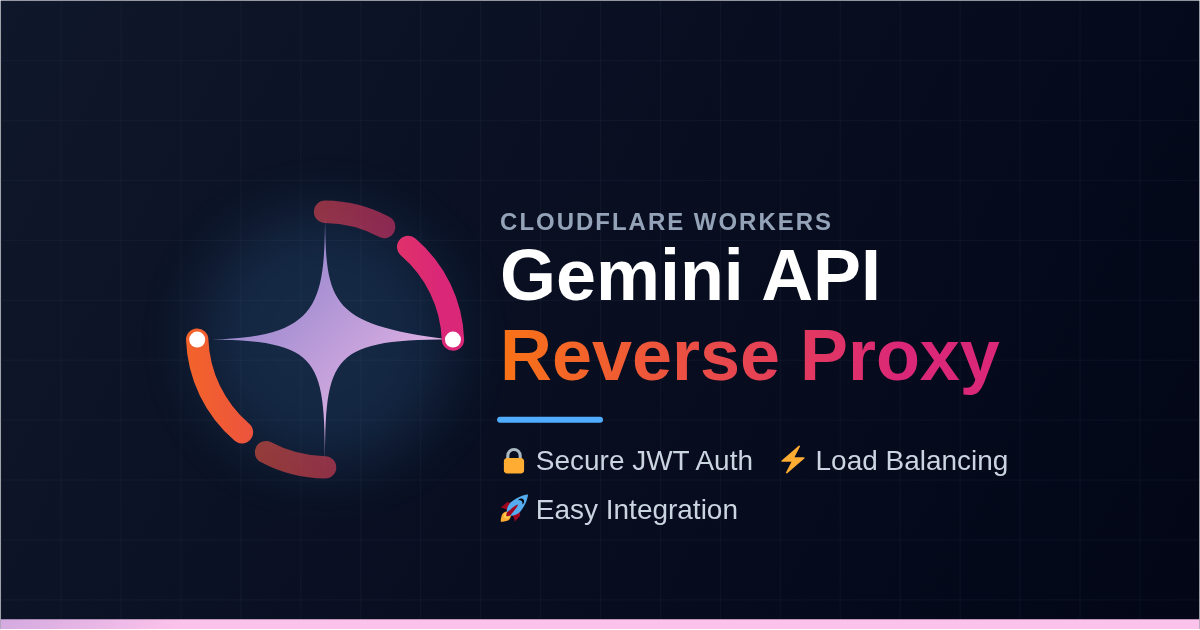
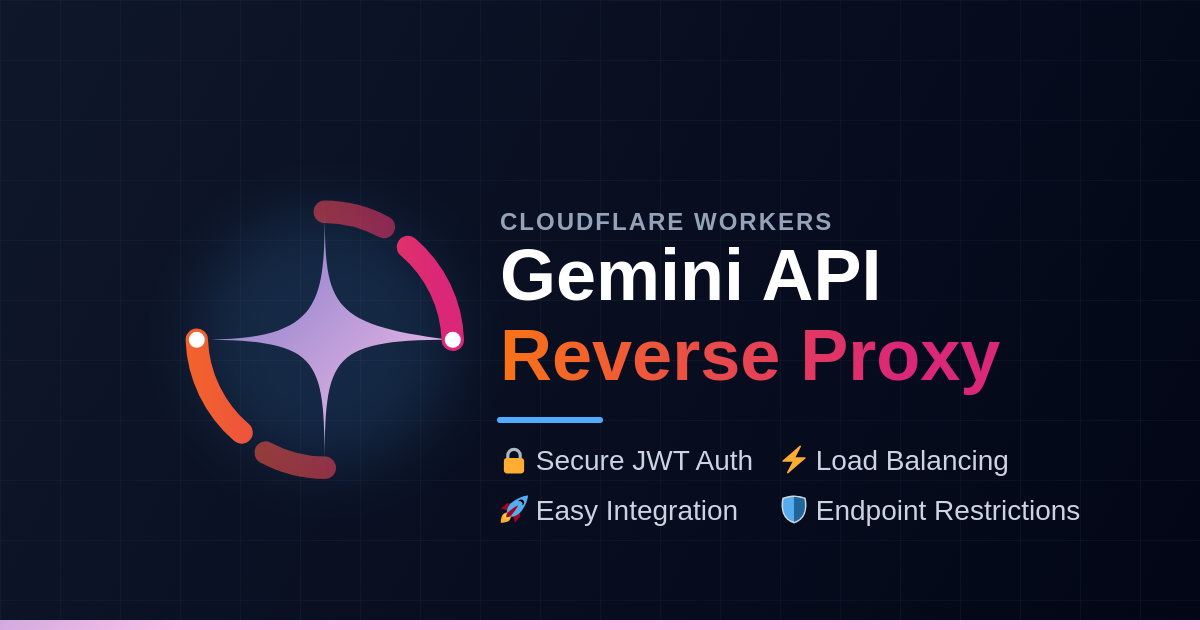
feat: Add allowed endpoints configuration and validation for JWT payload

diff --git a/src/utils.ts b/src/utils.ts
@@ -1,4 +1,22 @@
-import { Credential } from "./types";
+import { ClientKeyPayload, Credential } from "./types";
+
+function isClientKeyPayload(payload: unknown): payload is ClientKeyPayload {
+    if (!payload || typeof payload !== "object") {
+        return false;
+    }
+
+    const data = payload as Record<string, unknown>;
+    const hasTimestamps =
+        typeof data.exp === "number" && typeof data.nbf === "number";
+    const hasAllowedEndpoints =
+        data.allowed_endpoints === undefined ||
+        (Array.isArray(data.allowed_endpoints) &&
+            data.allowed_endpoints.every(
+                (endpoint) => typeof endpoint === "string",
+            ));
+
+    return hasTimestamps && hasAllowedEndpoints;
+}
 
 export async function hashKey(key: string | Credential): Promise<string> {
     const hashBuffer = await crypto.subtle.digest(
@@ -15,10 +33,10 @@ export async function hashKey(key: string | Credential): Promise<string> {
 export async function validateClientKey(
     key: string,
     secret: string,
-): Promise<boolean> {
+): Promise<ClientKeyPayload | null> {
     const parts = key.split(".");
     if (parts.length !== 3) {
-        return false;
+        return null;
     }
 
     let [headerB64, payloadB64, signatureB64] = parts;
@@ -30,7 +48,10 @@ export async function validateClientKey(
         return b;
     };
     const payloadJson = atob(toBase64(payloadB64));
-    const payload = JSON.parse(payloadJson);
+    const payload: unknown = JSON.parse(payloadJson);
+    if (!isClientKeyPayload(payload)) {
+        return null;
+    }
     const now = Math.floor(Date.now() / 1000);
     if (
         !payload.exp ||
@@ -38,7 +59,7 @@ export async function validateClientKey(
         now > payload.exp ||
         now < payload.nbf
     ) {
-        return false;
+        return null;
     }
 
     // validate signature
@@ -64,5 +85,5 @@ export async function validateClientKey(
         data,
     );
 
-    return isValid;
+    return isValid ? payload : null;
 }

diff --git a/public/script.js b/public/script.js
@@ -114,7 +114,31 @@ genBtn.addEventListener("click", async () => {
     try {
         const header = { alg: "HS256", typ: "JWT" };
         const providedNote = noteEl && noteEl.value ? noteEl.value : "";
-        const payload = { nbf, exp, note: providedNote };
+
+        let allowedEndpoints = [".*"];
+        const allowedEndpointsEl = document.getElementById("allowedEndpoints");
+        if (allowedEndpointsEl && allowedEndpointsEl.value) {
+            try {
+                const parsed = JSON.parse(allowedEndpointsEl.value);
+                if (Array.isArray(parsed)) {
+                    allowedEndpoints = parsed;
+                } else {
+                    throw new Error("Allowed endpoints must be a JSON array");
+                }
+            } catch (e) {
+                signedResult.style.display = "block";
+                signedCode.textContent =
+                    "Error parsing allowed endpoints: " + e.message;
+                return;
+            }
+        }
+
+        const payload = {
+            nbf,
+            exp,
+            note: providedNote,
+            allowed_endpoints: allowedEndpoints,
+        };
 
         const unsigned =
             base64UrlEncode(JSON.stringify(header)) +

diff --git a/public/index.html b/public/index.html
@@ -120,6 +120,19 @@
                         </div>
 
                         <div class="form-row">
+                            <label class="form-label" for="allowedEndpoints"
+                                >Allowed Endpoints</label
+                            >
+                            <input
+                                id="allowedEndpoints"
+                                class="form-input"
+                                type="text"
+                                placeholder='JSON array of regex patterns (default: [".*"])'
+                                value='[".*"]'
+                            />
+                        </div>
+
+                        <div class="form-row">
                             <label class="form-label" for="note">Note</label>
                             <input
                                 id="note"

diff --git a/src/index.ts b/src/index.ts
@@ -93,12 +93,21 @@ app.all("/*", async (c) => {
     }
 
     if (c.env.CLIENT_KEY_VALIDATION_SECRET) {
-        const isValid = await validateClientKey(
+        const payload = await validateClientKey(
             clientKey,
             c.env.CLIENT_KEY_VALIDATION_SECRET,
         );
-        if (!isValid) {
+        if (!payload) {
             return c.json({ error: "Invalid API key" }, 403);
+        }
+
+        const allowedEndpoints: string[] = payload.allowed_endpoints || [".*"];
+        const isAllowed = allowedEndpoints.some((pattern) =>
+            new RegExp(pattern).test(path),
+        );
+
+        if (!isAllowed) {
+            return c.json({ error: "Endpoint not allowed" }, 403);
         }
     }
 

diff --git a/src/types.ts b/src/types.ts
@@ -19,3 +19,9 @@ export interface KeyConfig {
 export interface Config {
     keys: KeyConfig[];
 }
+
+export interface ClientKeyPayload {
+    exp: number;
+    nbf: number;
+    allowed_endpoints?: string[];
+}

diff --git a/README.md b/README.md
@@ -10,36 +10,41 @@ This simplifies API access with load balancing, JWT validation, and seamless int
 ## Table of Contents
 
 - [Gemini Reverse Proxy Worker](#gemini-reverse-proxy-worker)
-    - [Table of Contents](#table-of-contents)
-    - [Features](#features)
-    - [Prerequisites](#prerequisites)
-    - [Installation](#installation)
-    - [Configuration](#configuration)
-        - [GEMINI_API_KEY](#gemini_api_key)
-        - [GEMINI_API_BASE_URL (Optional)](#gemini_api_base_url-optional)
-        - [CLIENT_KEY_VALIDATION_SECRET (Optional)](#client_key_validation_secret-optional)
-    - [Usage](#usage)
-        - [Development](#development)
-        - [Testing](#testing)
-        - [Deployment](#deployment)
-    - [API Usage](#api-usage)
-        - [Example Request](#example-request)
-        - [Supported Endpoints](#supported-endpoints)
-    - [Client Key Validation](#client-key-validation)
-    - [Load Balancing](#load-balancing)
-    - [Contributing](#contributing)
-    - [Issues](#issues)
-    - [License](#license)
+  - [Table of Contents](#table-of-contents)
+  - [Features](#features)
+  - [Prerequisites](#prerequisites)
+  - [Installation](#installation)
+  - [Configuration](#configuration)
+    - [GEMINI\_API\_KEY](#gemini_api_key)
+    - [GEMINI\_API\_BASE\_URL (Optional)](#gemini_api_base_url-optional)
+    - [CLIENT\_KEY\_VALIDATION\_SECRET (Optional)](#client_key_validation_secret-optional)
+    - [Storage Backend (Optional)](#storage-backend-optional)
+  - [Runtime Configuration](#runtime-configuration)
+    - [Dashboard](#dashboard)
+    - [API](#api)
+  - [Usage](#usage)
+    - [Development](#development)
+    - [Testing](#testing)
+    - [Deployment](#deployment)
+  - [API Usage](#api-usage)
+    - [Example Request](#example-request)
+    - [Supported Endpoints](#supported-endpoints)
+  - [Client Key Validation](#client-key-validation)
+  - [Load Balancing](#load-balancing)
+  - [Contributing](#contributing)
+  - [Issues](#issues)
+  - [License](#license)
 
 ## Features
 
 - **Multi-Key Support**: Configure multiple API keys or service accounts for load balancing and failover.
-- **Runtime Configuration**: Update API keys and base URLs at runtime without redeploying (using Cloudflare KV or D1).
-- **Admin Dashboard**: Built-in dashboard for managing configurations.
 - **Authentication Methods**: Supports both Google AI Studio API keys and Vertex AI service account credentials.
 - **Load Balancing**: Automatically distributes requests across configured keys to avoid rate limits.
 - **Client Key Validation**: Optional JWT-based validation of client-provided API keys.
+- **Endpoint Restrictions**: Restrict access to specific endpoints using regex patterns in JWT.
 - **CORS Enabled**: Supports cross-origin requests.
+- **Admin Dashboard**: Built-in dashboard for managing configurations.
+- **Runtime Configuration**: Update API keys and base URLs at runtime without redeploying (using Cloudflare KV or D1).
 - **AI Gateway Integration**: Includes metadata headers for Cloudflare AI Gateway analytics.
 - **Error Handling**: Graceful fallback and error reporting when keys fail.
 
@@ -207,6 +212,7 @@ The JWT payload must include:
 
 - `exp`: Expiration timestamp
 - `nbf`: Not before timestamp
+- `allowed_endpoints` (optional): Array of regex patterns to restrict access (default: `['.*']`)
 
 The JWT is signed with HMAC-SHA256 using the validation secret.
 
